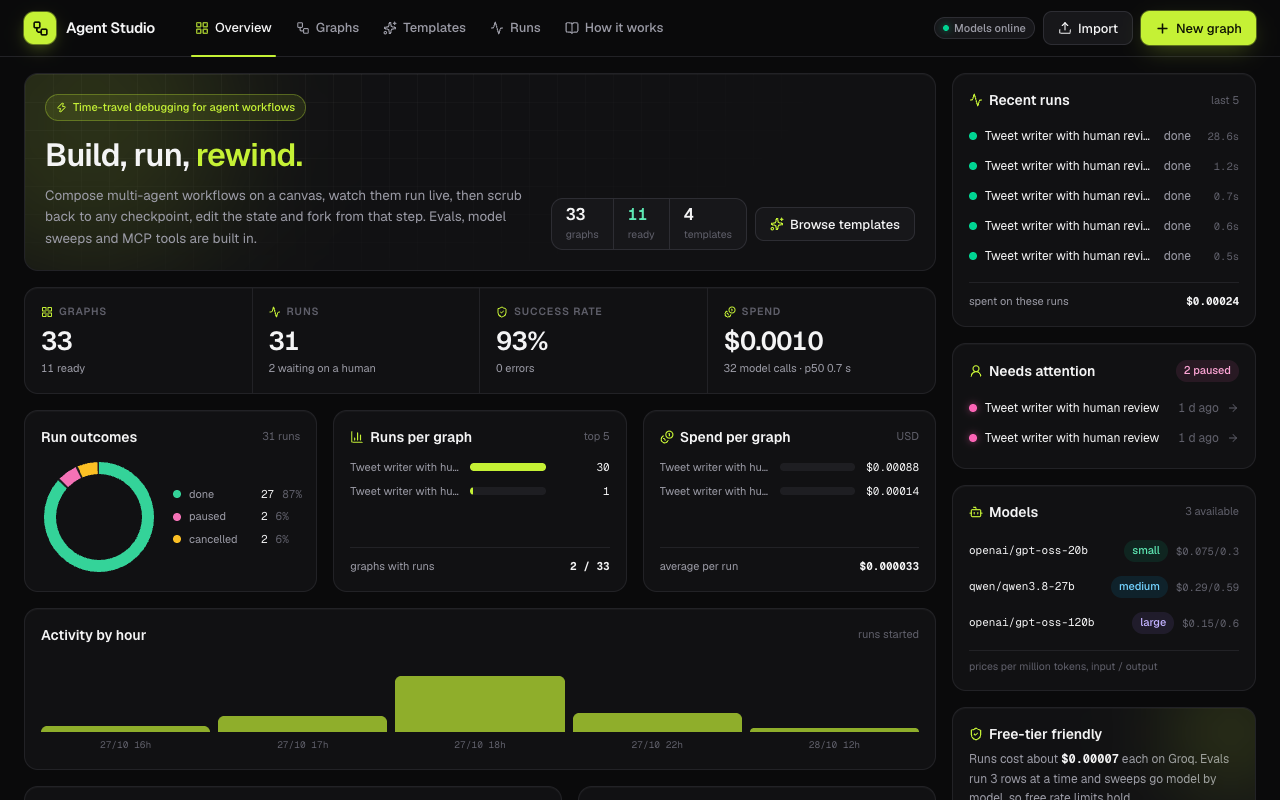
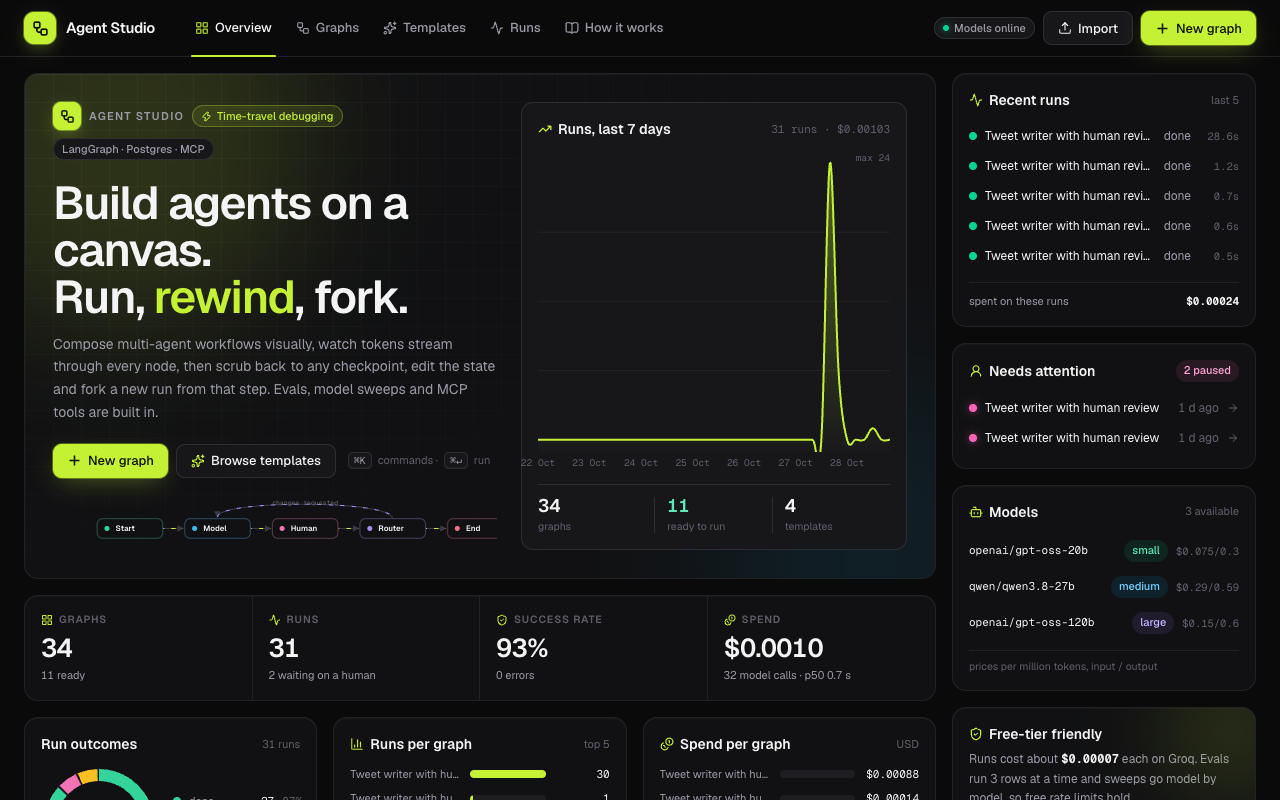
Overview hero: bigger two-column header with animated workflow illustration, 7-day runs line chart with hover readout, CTAs; hour bars removed

diff --git a/apps/web/src/app/graphs/page.tsx b/apps/web/src/app/graphs/page.tsx
@@ -1,6 +1,6 @@
 "use client";
 
-import { Activity, AlertTriangle, ArrowRight, ArrowUpDown, BarChart3, BookOpen, Coins, CheckSquare, ChevronLeft, ChevronRight, Square as SquareIcon, Bot, Code2, Copy, Cpu, FileJson, Flag, GitFork, HelpCircle, Keyboard, LayoutGrid, Link2, Play, Plus, Search, ShieldCheck, Sparkles, Trash2, Upload, UserRound, Workflow, Wrench, Zap, type LucideIcon } from "lucide-react";
+import { Activity, AlertTriangle, ArrowRight, ArrowUpDown, BarChart3, BookOpen, Coins, CheckSquare, ChevronLeft, ChevronRight, Square as SquareIcon, Bot, Code2, Copy, Cpu, FileJson, Flag, GitFork, HelpCircle, Keyboard, LayoutGrid, Link2, Play, Plus, Search, ShieldCheck, Sparkles, Trash2, TrendingUp, Upload, UserRound, Workflow, Wrench, Zap, type LucideIcon } from "lucide-react";
 import dynamic from "next/dynamic";
 import Link from "next/link";
 import { useRouter } from "next/navigation";
@@ -165,7 +165,7 @@ export default function GraphsPage() {
       <div className="mx-auto grid w-full max-w-[1680px] min-h-[calc(100vh-3.5rem)] gap-4 px-4 py-4 md:px-6 lg:grid-cols-[minmax(0,1fr)_19rem] 2xl:grid-cols-[minmax(0,1fr)_21rem]">
         <div className="flex min-w-0 flex-col gap-4">
           {error && <div className="rounded-xl border border-rose-500/30 bg-rose-500/10 p-3 text-sm text-rose-300">{error}</div>}
-          {view === "overview" && <Overview runs={runs} graphs={graphs} templates={templates} fromTemplate={fromTemplate} setView={setView} />}
+          {view === "overview" && <Overview runs={runs} graphs={graphs} templates={templates} fromTemplate={fromTemplate} setView={setView} onNew={create} />}
           {view === "graphs" && <GraphsView graphs={graphs} refresh={refresh} onNew={create} />}
           {view === "templates" && <TemplatesView templates={templates} fromTemplate={fromTemplate} onImport={onImport} onNew={create} />}
           {view === "runs" && <RunsView runs={runs} graphs={graphs ?? []} />}
@@ -326,7 +326,7 @@ function ModelsCard() {
 
 /* ---------------- overview ---------------- */
 
-function Overview({ runs, graphs: graphsOrNull, templates, fromTemplate, setView }: { runs: RunInfo[]; graphs: GraphSummary[] | null; templates: TemplateInfo[]; fromTemplate: (slug: string) => void; setView: (v: View) => void }) {
+function Overview({ runs, graphs: graphsOrNull, templates, fromTemplate, setView, onNew }: { runs: RunInfo[]; graphs: GraphSummary[] | null; templates: TemplateInfo[]; fromTemplate: (slug: string) => void; setView: (v: View) => void; onNew: () => void }) {
   const graphs = graphsOrNull ?? [];
   const healthy = graphs.filter((g) => g.issues === 0).length;
   const nameOf = Object.fromEntries(graphs.map((g) => [g.id, g.name]));
@@ -345,9 +345,26 @@ function Overview({ runs, graphs: graphsOrNull, templates, fromTemplate, setView
   const costGraph: Record<string, number> = {};
   for (const r of runs) costGraph[r.graph_id] = (costGraph[r.graph_id] ?? 0) + (r.usage?.cost_usd ?? 0);
   const topCost = Object.entries(costGraph).sort((a, b) => b[1] - a[1]).slice(0, 5).map(([id, v]) => [id, nameOf[id] ?? "deleted graph", v] as [string, string, number]);
-  const byHour: Record<string, number> = {};
-  for (const r of runs) { const h = new Date(r.created_at); const k = `${h.getDate()}/${h.getMonth() + 1} ${String(h.getHours()).padStart(2, "0")}h`; byHour[k] = (byHour[k] ?? 0) + 1; }
-  const hours = Object.entries(byHour).slice(0, 10).reverse() as [string, number][];
+  // "now" is only known after mount: using the clock during server render would break hydration
+  const [now, setNow] = useState<number | null>(null);
+  useEffect(() => {
+    const id = requestAnimationFrame(() => setNow(Date.now()));
+    return () => cancelAnimationFrame(id);
+  }, []);
+  // last 7 days in 4-hour buckets, aligned to local midnight six days ago
+  const BUCKET = 4 * 3600000, N = 42;
+  const dayStart = now != null ? new Date(now) : null;
+  dayStart?.setHours(0, 0, 0, 0);
+  const seriesStart = dayStart ? dayStart.getTime() - 6 * 86400000 : 0;
+  const series = Array.from({ length: N }, (_, i) => ({ t: seriesStart + i * BUCKET, runs: 0, cost: 0 }));
+  if (dayStart) {
+    for (const r of runs) {
+      const i = Math.floor((new Date(r.created_at).getTime() - seriesStart) / BUCKET);
+      if (i >= 0 && i < N) { series[i].runs += 1; series[i].cost += r.usage?.cost_usd ?? 0; }
+    }
+  }
+  const runs7 = series.reduce((a, b) => a + b.runs, 0);
+  const cost7 = series.reduce((a, b) => a + b.cost, 0);
   const kpis: [LucideIcon, string, string, string][] = [
     [LayoutGrid, "Graphs", String(graphs.length), `${healthy} ready`],
     [Activity, "Runs", String(runs.length), `${byStatus.paused ?? 0} waiting on a human`],
@@ -357,36 +374,49 @@ function Overview({ runs, graphs: graphsOrNull, templates, fromTemplate, setView
   return (
     <>
       <section className="card relative overflow-hidden">
-        <div aria-hidden className="bg-grid pointer-events-none absolute inset-0 [mask-image:radial-gradient(70%_120%_at_20%_0%,black,transparent)]" />
-        <div aria-hidden className="pointer-events-none absolute -top-24 -left-20 h-72 w-72 rounded-full bg-accent/15 blur-3xl" />
-        <div className="relative flex flex-col gap-4 p-5 lg:flex-row lg:items-end lg:justify-between">
-          <div className="min-w-0">
-            <div className="mb-2.5 inline-flex items-center gap-1.5 rounded-full border border-accent/30 bg-accent/10 px-2.5 py-1 text-[11px] font-medium text-accent">
-              <Zap size={11} /> Time-travel debugging for agent workflows
+        <div aria-hidden className="bg-grid pointer-events-none absolute inset-0 [mask-image:radial-gradient(80%_120%_at_15%_0%,black,transparent)]" />
+        <div aria-hidden className="pointer-events-none absolute -top-32 -left-24 h-96 w-96 rounded-full bg-accent/15 blur-3xl" />
+        <div aria-hidden className="pointer-events-none absolute -right-24 -bottom-32 h-80 w-80 rounded-full bg-sky-400/8 blur-3xl" />
+        <div className="relative grid gap-6 p-6 md:p-7 xl:grid-cols-[1.15fr_1fr]">
+          <div className="flex min-w-0 flex-col">
+            <div className="flex flex-wrap items-center gap-2">
+              <span className="flex items-center gap-2 text-[11px] font-semibold tracking-[0.12em] text-muted uppercase"><Logo size="sm" /> Agent Studio</span>
+              <span className="pill border border-accent/30 bg-accent/10 text-accent"><Zap size={11} /> Time-travel debugging</span>
+              <span className="pill border border-edge-2 bg-panel-2 text-muted">LangGraph · Postgres · MCP</span>
             </div>
-            <h1 className="text-[28px] font-semibold tracking-[-0.02em] md:text-[32px]">
-              Build, run, <span className="text-accent">rewind.</span>
+            <h1 className="mt-5 text-[36px] leading-[1.02] font-semibold tracking-[-0.03em] md:text-[46px]">
+              Build agents on a canvas.
+              <br />
+              Run, <span className="text-accent">rewind</span>, fork.
             </h1>
-            <p className="mt-1.5 max-w-2xl text-[13.5px] leading-relaxed text-muted">
-              Compose multi-agent workflows on a canvas, watch them run live, then scrub back to any checkpoint, edit the state and fork from that step. Evals, model sweeps and MCP tools are built in.
+            <p className="mt-3 max-w-xl text-[14px] leading-relaxed text-muted">
+              Compose multi-agent workflows visually, watch tokens stream through every node, then scrub back to any checkpoint, edit the state and fork a new run from that step. Evals, model sweeps and MCP tools are built in.
             </p>
+            <div className="mt-5 flex flex-wrap items-center gap-2">
+              <button onClick={onNew} className="btn btn-primary"><Plus size={15} strokeWidth={2.5} /> New graph</button>
+              <button onClick={() => setView("templates")} className="btn btn-ghost"><Sparkles size={14} className="text-accent" /> Browse templates</button>
+              <span className="ml-1 hidden items-center gap-1.5 text-[11px] text-dim sm:flex"><kbd className="kbd">⌘K</kbd> commands · <kbd className="kbd">⌘↵</kbd> run</span>
+            </div>
+            <HeroFlow />
           </div>
-          <div className="flex shrink-0 flex-wrap items-center gap-2">
-            <div className="card-2 flex items-center divide-x divide-edge-2 text-xs">
+          <div className="card-2 flex min-w-0 flex-col p-4">
+            <div className="flex items-center justify-between gap-3">
+              <div className="flex items-center gap-1.5 text-sm font-semibold"><TrendingUp size={14} className="text-accent" /> Runs, last 7 days</div>
+              <span className="font-mono text-[11px] text-dim">{runs7} runs · ${cost7.toFixed(5)}</span>
+            </div>
+            {dayStart ? <RunsLine series={series} /> : <div className="mt-3 min-h-[150px] flex-1 animate-pulse rounded-lg bg-panel-3/40" />}
+            <div className="mt-3 grid grid-cols-3 divide-x divide-edge-2 border-t border-edge-2 pt-3 text-xs">
               {[
                 ["graphs", graphsOrNull ? graphs.length : "–", ""],
-                ["ready", graphsOrNull ? healthy : "–", "text-emerald-300"],
+                ["ready to run", graphsOrNull ? healthy : "–", "text-emerald-300"],
                 ["templates", templates.length, ""],
-              ].map(([label, value, cls]) => (
-                <div key={String(label)} className="px-3.5 py-2">
-                  <div className={`text-base font-semibold tabular-nums leading-none ${cls}`}>{value}</div>
+              ].map(([label, value, cls], i) => (
+                <div key={String(label)} className={i ? "px-3" : "pr-3"}>
+                  <div className={`text-lg font-semibold tabular-nums leading-none ${cls}`}>{value}</div>
                   <div className="mt-1 text-[10.5px] text-dim">{label}</div>
                 </div>
               ))}
             </div>
-            <button onClick={() => setView("templates")} className="btn btn-ghost">
-              <Sparkles size={14} className="text-accent" /> Browse templates
-            </button>
           </div>
         </div>
       </section>
@@ -423,20 +453,6 @@ function Overview({ runs, graphs: graphsOrNull, templates, fromTemplate, setView
           <CardHead icon={Coins} title="Spend per graph" hint="USD" />
           <Bars rows={topCost} color="#fbbf24" fmt={(v) => `$${v.toFixed(5)}`} />
           <div className="mt-auto flex justify-between border-t border-edge pt-2.5 text-[11px] text-muted"><span>average per run</span><b className="font-mono text-fg">${runs.length ? (cost / runs.length).toFixed(6) : "0"}</b></div>
-        </div>
-      </div>
-
-      <div className="card p-4">
-        <CardHead title="Activity by hour" hint="runs started" />
-        <div className="flex h-24 items-end gap-2">
-          {hours.map(([k, v]) => { const max = Math.max(...hours.map((h) => h[1]), 1); return (
-            <div key={k} className="group flex flex-1 flex-col items-center gap-1.5" title={`${v} runs`}>
-              <span className="font-mono text-[10px] text-dim opacity-0 transition group-hover:opacity-100">{v}</span>
-              <div className="w-full rounded-t-md bg-accent/70 transition group-hover:bg-accent" style={{ height: `${Math.max(4, (v / max) * 56)}px` }} />
-              <span className="font-mono text-[9.5px] text-dim">{k}</span>
-            </div>
-          ); })}
-          {!hours.length && <p className="text-[11px] text-dim">no runs yet</p>}
         </div>
       </div>
 
@@ -965,6 +981,113 @@ const guideNotes: Record<NodeType, string> = {
   code: "python · sandboxed",
   end: "final vars",
 };
+
+/* ---------------- hero visuals ---------------- */
+
+/** A tiny animated workflow: the product in one glance. */
+function HeroFlow() {
+  const nodes: [number, string, string][] = [
+    [0, "Start", "#34d399"],
+    [1, "Model", "#38bdf8"],
+    [2, "Human", "#f472b6"],
+    [3, "Router", "#a78bfa"],
+    [4, "End", "#fb7185"],
+  ];
+  const x = (i: number) => 12 + i * 122;
+  return (
+    <svg viewBox="0 0 520 78" className="mt-auto h-[72px] w-full max-w-[520px] pt-4 text-fg" aria-hidden>
+      <defs>
+        <marker id="hf-arrow" viewBox="0 0 8 8" refX="7" refY="4" markerWidth="6" markerHeight="6" orient="auto">
+          <path d="M0 0 L8 4 L0 8 z" fill="#3a3a44" />
+        </marker>
+      </defs>
+      {/* straight edges */}
+      {[0, 1, 2, 3].map((i) => (
+        <g key={i}>
+          <path d={`M${x(i) + 92} 48 H${x(i + 1) - 2}`} stroke="#3a3a44" strokeWidth="1.5" fill="none" markerEnd="url(#hf-arrow)" />
+          <path d={`M${x(i) + 92} 48 H${x(i + 1) - 2}`} stroke="var(--accent)" strokeWidth="1.5" fill="none" className="flow-dash" />
+        </g>
+      ))}
+      {/* feedback edge: router → model */}
+      <path d={`M${x(3) + 46} 34 C ${x(3) + 46} 8, ${x(1) + 46} 8, ${x(1) + 46} 32`} stroke="#3a3a44" strokeWidth="1.5" fill="none" markerEnd="url(#hf-arrow)" />
+      <path d={`M${x(3) + 46} 34 C ${x(3) + 46} 8, ${x(1) + 46} 8, ${x(1) + 46} 32`} stroke="#a78bfa" strokeWidth="1.5" fill="none" className="flow-dash" style={{ animationDuration: "1.8s" }} />
+      <text x={x(2) + 46} y="16" textAnchor="middle" fontSize="9" fontFamily="var(--font-mono)" fill="#6b6b78">changes requested</text>
+      {nodes.map(([i, label, color]) => (
+        <g key={label} transform={`translate(${x(i)} 34)`}>
+          <rect width="92" height="28" rx="8" fill="var(--panel)" stroke="var(--edge-2)" />
+          <rect x="0.5" y="0.5" width="91" height="27" rx="7.5" fill="none" stroke={color} strokeOpacity="0.35" />
+          <circle cx="14" cy="14" r="3.5" fill={color} />
+          <text x="26" y="18" fontSize="11" fontWeight="600" fill="currentColor">{label}</text>
+        </g>
+      ))}
+    </svg>
+  );
+}
+
+/** Lime area line chart with hover readout. Paths scale to the box; the stroke stays 2px. */
+function RunsLine({ series }: { series: { t: number; runs: number; cost: number }[] }) {
+  const [hover, setHover] = useState<number | null>(null);
+  const W = 600, H = 150, PAD = 6;
+  const max = Math.max(1, ...series.map((p) => p.runs));
+  const n = series.length;
+  const px = (i: number) => (i / (n - 1)) * W;
+  const py = (v: number) => H - PAD - (v / max) * (H - PAD * 2);
+  // smooth curve through the points (Catmull-Rom → cubic bezier)
+  const pts = series.map((p, i) => [px(i), py(p.runs)] as [number, number]);
+  let d = `M${pts[0][0]} ${pts[0][1]}`;
+  for (let i = 0; i < pts.length - 1; i++) {
+    const p0 = pts[Math.max(0, i - 1)], p1 = pts[i], p2 = pts[i + 1], p3 = pts[Math.min(pts.length - 1, i + 2)];
+    const c1x = p1[0] + (p2[0] - p0[0]) / 6, c1y = p1[1] + (p2[1] - p0[1]) / 6;
+    const c2x = p2[0] - (p3[0] - p1[0]) / 6, c2y = p2[1] - (p3[1] - p1[1]) / 6;
+    d += ` C${c1x} ${c1y}, ${c2x} ${c2y}, ${p2[0]} ${p2[1]}`;
+  }
+  const area = `${d} L${W} ${H} L0 ${H} Z`;
+  const days = series.map((p, i) => [i, new Date(p.t)] as const).filter(([, dt]) => dt.getHours() === 0);
+  const h = hover != null ? series[hover] : null;
+  const fmtT = (t: number) => new Date(t).toLocaleString(undefined, { weekday: "short", hour: "2-digit" });
+  return (
+    <div className="mt-3 flex min-h-0 flex-1 flex-col">
+      <div
+        className="relative min-h-[140px] w-full flex-1"
+        onMouseMove={(e) => {
+          const r = e.currentTarget.getBoundingClientRect();
+          setHover(Math.max(0, Math.min(n - 1, Math.round(((e.clientX - r.left) / r.width) * (n - 1)))));
+        }}
+        onMouseLeave={() => setHover(null)}
+      >
+        <svg viewBox={`0 0 ${W} ${H}`} preserveAspectRatio="none" className="absolute inset-0 h-full w-full">
+          <defs>
+            <linearGradient id="rl-fill" x1="0" y1="0" x2="0" y2="1">
+              <stop offset="0%" stopColor="var(--accent)" stopOpacity="0.35" />
+              <stop offset="100%" stopColor="var(--accent)" stopOpacity="0" />
+            </linearGradient>
+          </defs>
+          {[0.25, 0.5, 0.75].map((f) => (
+            <line key={f} x1="0" x2={W} y1={py(max * f)} y2={py(max * f)} stroke="var(--edge)" strokeWidth="1" vectorEffect="non-scaling-stroke" />
+          ))}
+          <path d={area} fill="url(#rl-fill)" />
+          <path d={d} fill="none" stroke="var(--accent)" strokeWidth="2" strokeLinejoin="round" vectorEffect="non-scaling-stroke" />
+        </svg>
+        {h && (
+          <>
+            <div className="pointer-events-none absolute inset-y-0 w-px bg-accent/50" style={{ left: `${(hover! / (n - 1)) * 100}%` }} />
+            <div className="pointer-events-none absolute h-2.5 w-2.5 -translate-x-1/2 -translate-y-1/2 rounded-full border-2 border-accent bg-canvas" style={{ left: `${(hover! / (n - 1)) * 100}%`, top: `${(py(h.runs) / H) * 100}%` }} />
+            <div className={`pointer-events-none absolute top-1 rounded-lg border border-edge-2 bg-panel px-2 py-1 text-[10.5px] shadow-lg ${hover! > n / 2 ? "-translate-x-full" : ""}`} style={{ left: `${(hover! / (n - 1)) * 100}%`, marginLeft: hover! > n / 2 ? -8 : 8 }}>
+              <div className="text-muted">{fmtT(h.t)}</div>
+              <div className="font-mono text-fg">{h.runs} run{h.runs === 1 ? "" : "s"} · ${h.cost.toFixed(5)}</div>
+            </div>
+          </>
+        )}
+        <span className="pointer-events-none absolute top-0 right-0 font-mono text-[9.5px] text-dim">max {max}</span>
+      </div>
+      <div className="relative mt-1 h-4 font-mono text-[9.5px] text-dim">
+        {days.map(([i, dt]) => (
+          <span key={i} className="absolute -translate-x-1/2" style={{ left: `${(i / (n - 1)) * 100}%` }}>{dt.toLocaleDateString(undefined, { day: "numeric", month: "short" })}</span>
+        ))}
+      </div>
+    </div>
+  );
+}
 
 /* ---------------- charts ---------------- */
 

diff --git a/apps/web/src/app/globals.css b/apps/web/src/app/globals.css
@@ -335,3 +335,14 @@ body {
   background-size: 200% 100%;
   animation: sweep 1.4s linear infinite;
 }
+
+/* animated dashed edges in the hero illustration */
+@keyframes flow-dash {
+  to {
+    stroke-dashoffset: -32;
+  }
+}
+.flow-dash {
+  stroke-dasharray: 6 10;
+  animation: flow-dash 1.1s linear infinite;
+}
